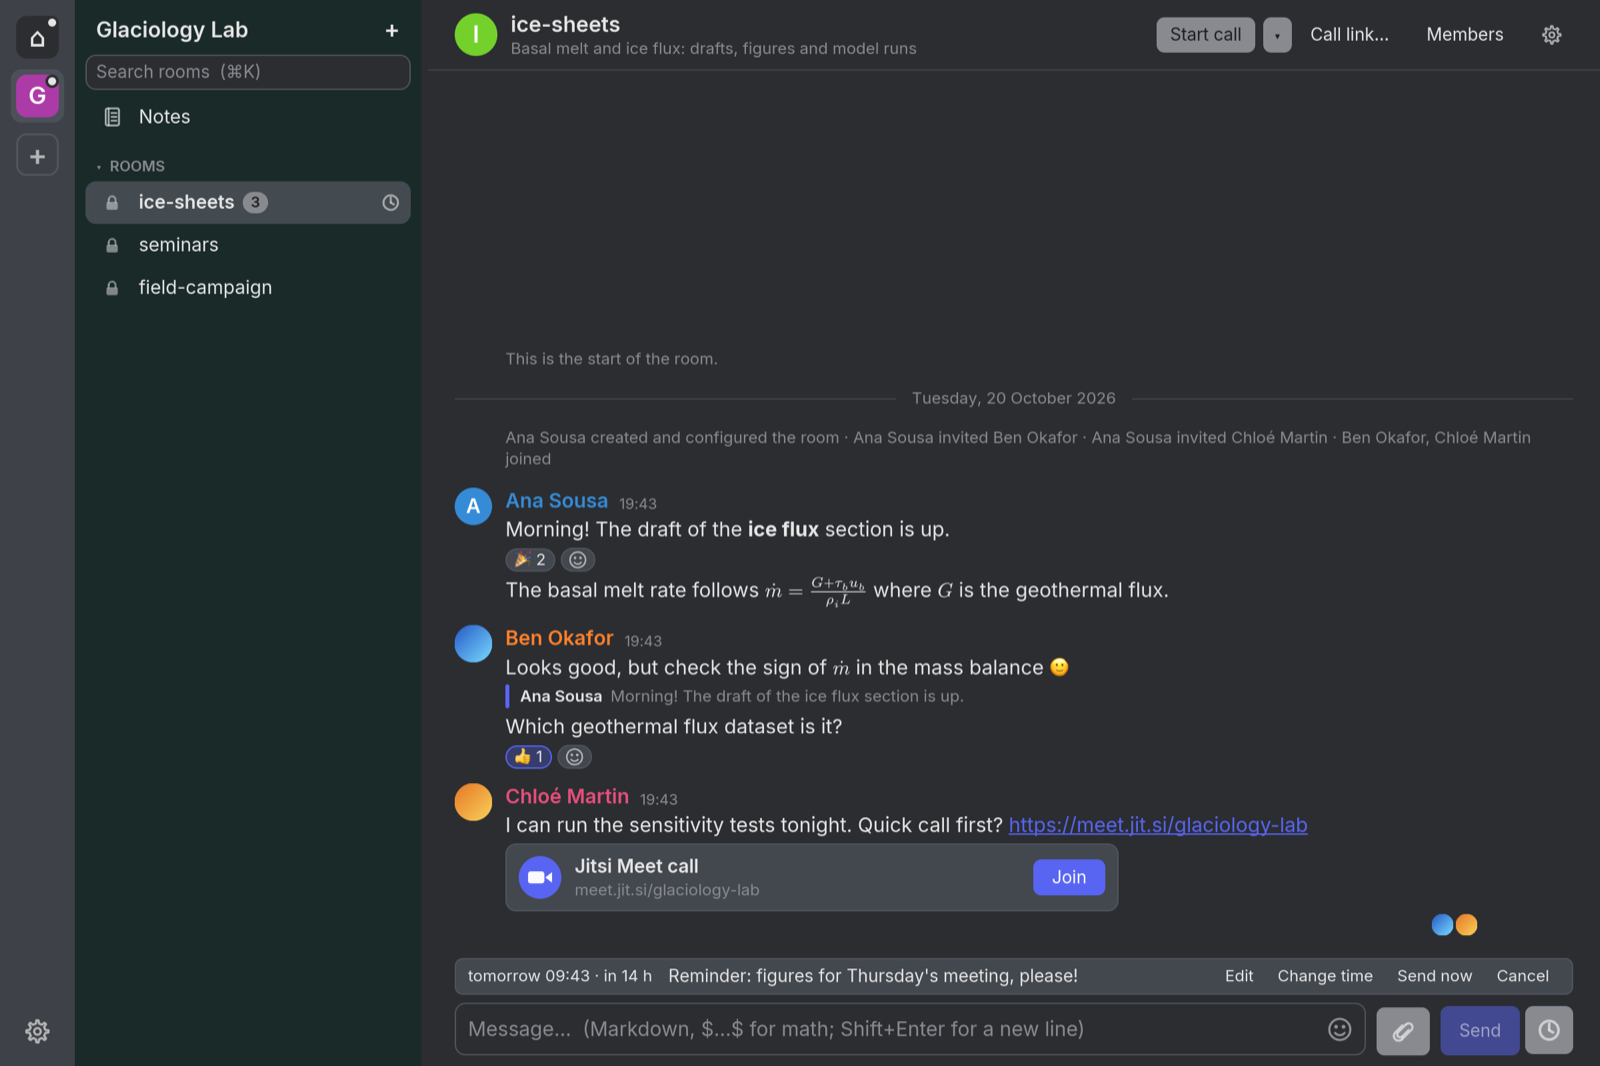
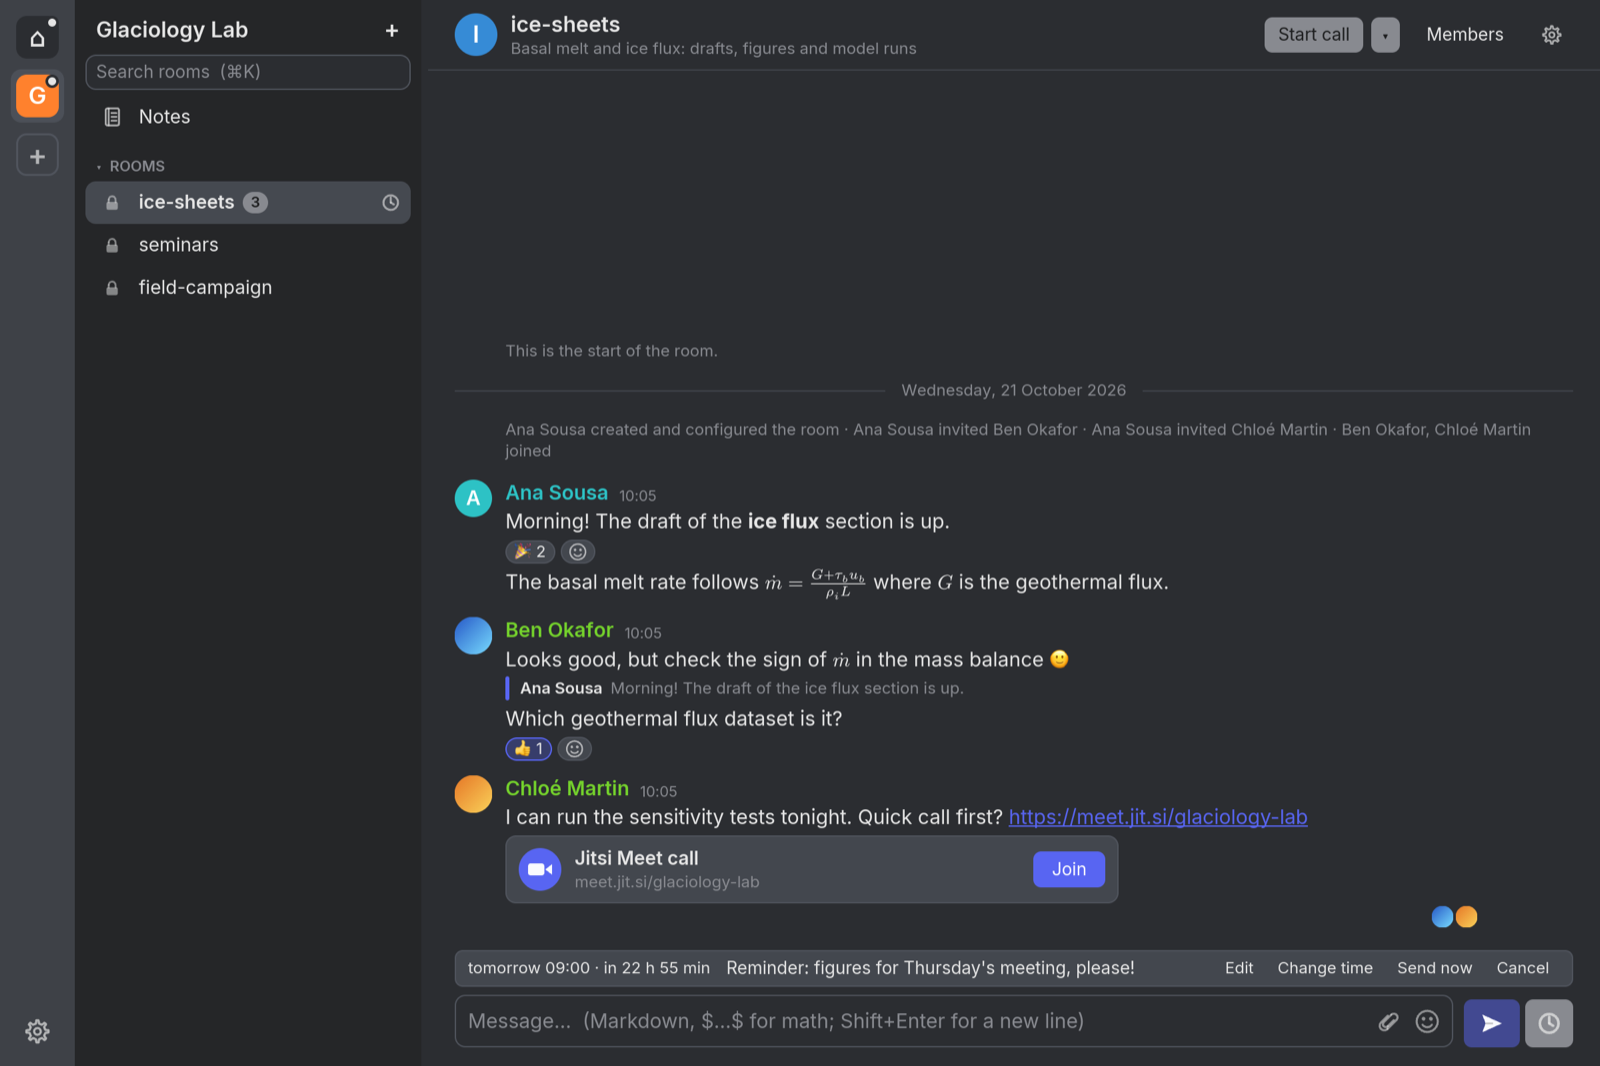
Website screenshots: default room list colour, reminder at nine

diff --git a/crates/mtrx-app/src/app/tests.rs b/crates/mtrx-app/src/app/tests.rs
@@ -1637,21 +1637,24 @@ async fn website_screenshots() {
 
     let ana = Arc::new(ana);
     let now = SystemTime::now();
+    // Tomorrow at nine.
+    let tomorrow_nine: SystemTime = (chrono::Local::now().date_naive() + chrono::Days::new(1))
+        .and_hms_opt(9, 0, 0)
+        .unwrap()
+        .and_local_timezone(chrono::Local)
+        .unwrap()
+        .into();
     let screen = |mode: Mode| {
         let mut main = Main::new(ana.clone());
         main.rooms = rooms.clone();
         main.space = Some(space.clone());
         main.verified = Some(true);
         main.now = now;
-        main.colours = RoomListColours {
-            home: None,
-            spaces: [(space.clone(), "Teal".to_owned())].into(),
-        };
         main.scheduled = vec![ScheduledMessage {
             id: "a".into(),
             room_id: room.clone(),
             text: "Reminder: figures for Thursday's meeting, please!".into(),
-            send_at: now + Duration::from_secs(14 * 3600),
+            send_at: tomorrow_nine,
             in_reply_to: None,
             overdue: false,
             files: Vec::new(),
